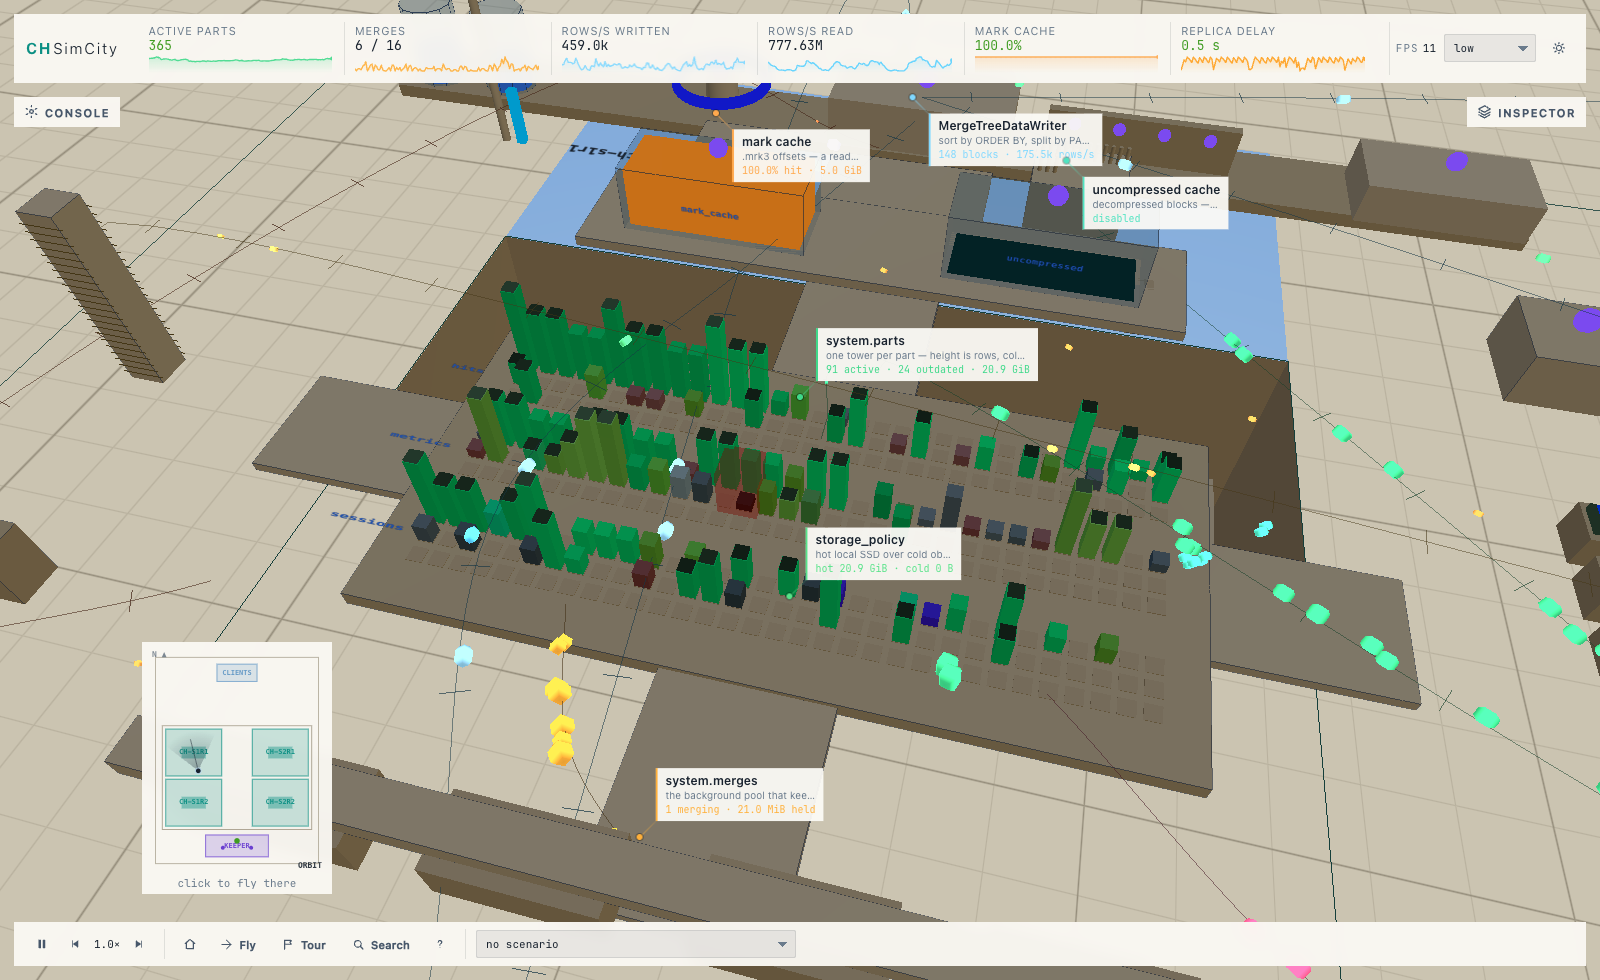
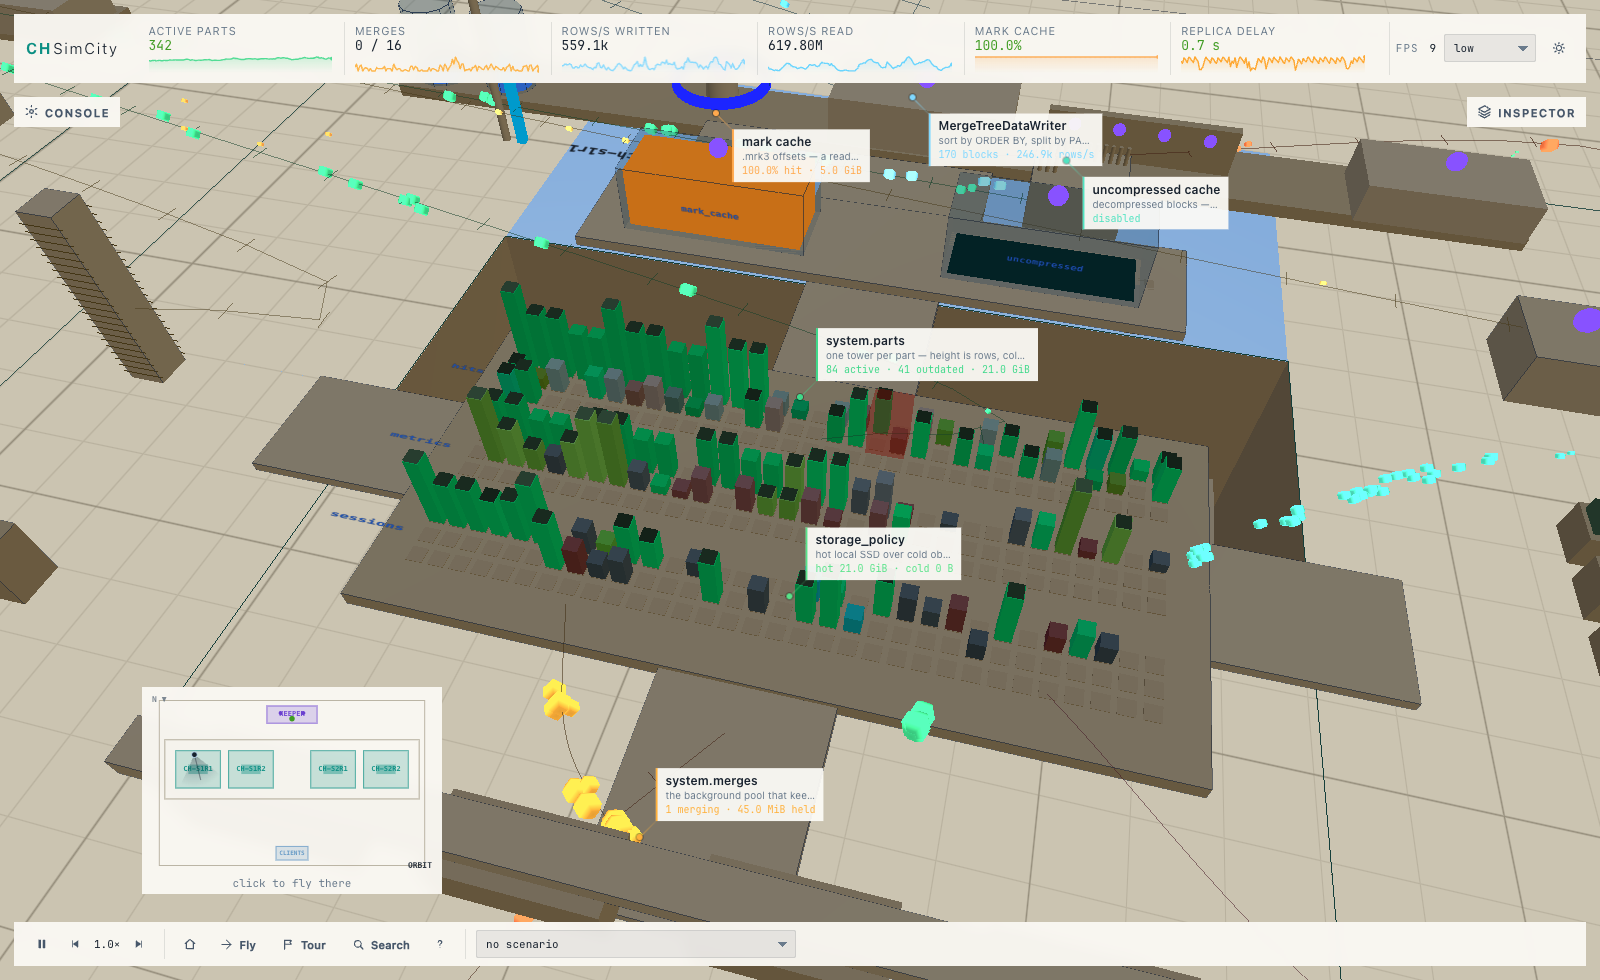
docs: reshoot the README screenshot, and give CLIENTS its label back
Same framing as before — one server's parts yard, day theme, a merge running —
but the minimap inside the frame still showed the servers as a 2x2 square.

Reshooting it surfaced a real regression from the row: the world went from 720
units across to 1460, the map's scale went with it, and CLIENTS — the narrowest
district on the plan — stopped fitting its own box by two pixels and was
dropped. That leaves the pale unlabelled rectangle `district()` exists to
avoid. A label now gets a second measurement one size down before it gives up,
and the panel goes 250 -> 300px (canvas 148 -> 180) so there is a box for it to
fit in.

diff --git a/src/ui/minimap.ts b/src/ui/minimap.ts
@@ -34,6 +34,11 @@ import type { UiContext, UiModule } from './uikit'
 /** Padding inside the canvas, in CSS pixels. */
 const PAD = 7
 
+const MONO = 'ui-monospace, SFMono-Regular, Menlo, monospace'
+const LABEL_FONT = `600 7px ${MONO}`
+/** One step down, for a district too narrow to hold its name at full size. */
+const LABEL_FONT_SMALL = `600 6px ${MONO}`
+
 /** Everything the map has to hold, in world units. Derived, never transcribed. */
 const WORLD = (() => {
   // DISTRICT_BOUNDS.world is deliberately generous — it is the picking
@@ -108,9 +113,9 @@ export function createMinimap(ctx: UiContext): UiModule {
   }
 
   /* --- world → map projection --------------------------------------------
-   * North is up, east is right, and the scale is uniform so the plan is not
-   * distorted: a square island has to look square or the map is lying about
-   * the geography it exists to convey. */
+   * The scale is uniform so the plan is not distorted: a square island has to
+   * look square or the map is lying about the geography it exists to convey.
+   * Which way up it is, and why, is the block below `computeProjection`. */
 
   let scale = 1
   let originX = 0
@@ -229,12 +234,26 @@ export function createMinimap(ctx: UiContext): UiModule {
     g.lineWidth = emphasis > 1 ? 1.5 : 1
     g.strokeRect(px + 0.5, py + 0.5, pw - 1, ph - 1)
 
-    // Measured, not estimated from the character count: a label that overflows
-    // its footprint by two pixels is worse than no label, and the monospace
-    // assumption is one theme change away from being wrong.
-    if (ph > 9 && g.measureText(name).width + 6 < pw) {
+    /* Measured, not estimated from the character count: a label that overflows
+     * its footprint by two pixels is worse than no label, and the monospace
+     * assumption is one theme change away from being wrong.
+     *
+     * It gets a second measurement one size down before it gives up. The row
+     * arrangement widened the world from 720 units to 1460 and took the scale
+     * with it, and CLIENTS — a genuinely narrow district — stopped fitting at
+     * the full size by two pixels. Dropping it left the map with the pale
+     * unlabelled box this function exists to avoid. */
+    const fits = (): boolean => g.measureText(name).width + 6 < pw
+    let sized = ph > 9 && fits()
+    if (ph > 9 && !sized) {
+      g.font = LABEL_FONT_SMALL
+      sized = fits()
+      if (!sized) g.font = LABEL_FONT
+    }
+    if (sized) {
       g.fillStyle = withAlpha(color, 0.95)
       g.fillText(name, px + pw / 2, py + ph / 2)
+      g.font = LABEL_FONT
     }
     hotspots.push({ id, label: caption, x: px, y: py, w: pw, h: ph })
   }
@@ -247,7 +266,7 @@ export function createMinimap(ctx: UiContext): UiModule {
 
     g.setTransform(dpr, 0, 0, dpr, 0, 0)
     g.clearRect(0, 0, cssW, cssH)
-    g.font = '600 7px ui-monospace, SFMono-Regular, Menlo, monospace'
+    g.font = LABEL_FONT
     g.textAlign = 'center'
     g.textBaseline = 'middle'
 
@@ -399,7 +418,7 @@ export function createMinimap(ctx: UiContext): UiModule {
      * `N ▼`, not `N ▲`: the map is south-up so it agrees with the scene, and a
      * compass that still claimed north was up would make it a wrong map rather
      * than a turned one. */
-    g.font = '600 8px ui-monospace, SFMono-Regular, Menlo, monospace'
+    g.font = `600 8px ${MONO}`
     g.textBaseline = 'top'
     g.textAlign = 'left'
     g.fillStyle = withAlpha(cssColor('inkDim'), 0.8)

diff --git a/src/styles/hud.css b/src/styles/hud.css
@@ -559,8 +559,10 @@ body.ch-paused .hud-dock {
   position: relative;
   /* Widened from 190 when the four servers went from a 2x2 square into a row:
      the world went from 720 units across to 1460, and at the old width an
-     island was 30 CSS pixels — too small to tell a parts yard from a pit. */
-  width: 250px;
+     island was 30 CSS pixels — too small to tell a parts yard from a pit. The
+     second step, 250 to 300, bought back the CLIENTS label, which is the
+     narrowest district on the map and stopped fitting its own box. */
+  width: 300px;
   background: var(--bg-panel);
   backdrop-filter: blur(6px);
   padding: 6px 6px 4px;
@@ -568,14 +570,14 @@ body.ch-paused .hud-dock {
 .map__c {
   display: block;
   width: 100%;
-  /* 238 CSS pixels of usable width, and the built world is 1460 units across by
+  /* 288 CSS pixels of usable width, and the built world is 1460 units across by
      910 deep — the four servers stand in a row, so the plan is now WIDER than it
      is deep, where it used to be the other way round. The projection inside is
      uniform, so a box of the wrong aspect does not stretch the map, it surrounds
      it with empty ground: at the 168px an early version used, the whole cluster
      was squeezed into a narrow strip down the middle of the canvas.
      `test/minimap.test.ts` keeps this number honest against `world/layout.ts`. */
-  height: 148px;
+  height: 180px;
 }
 .map__cap {
   font-family: var(--f-mono);
